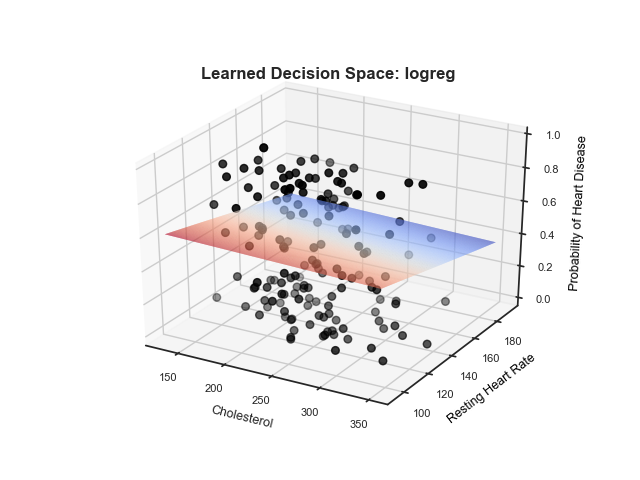
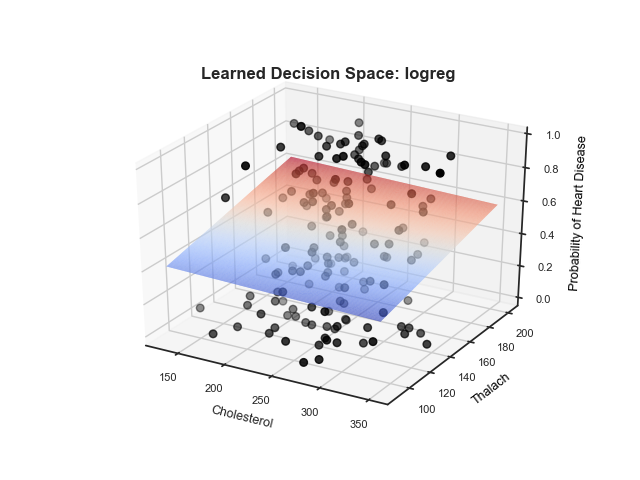
wip fix pics

Changed region(s): [[0.25, 0.2188, 0.7812, 0.8125], [0.625, 0.6875, 0.8438, 0.875]]

diff --git a/src/models/train_model.py b/src/models/train_model.py
@@ -302,18 +302,18 @@ class HeartDiseaseModels():
             
             return s_df.dropna(how='any')
 
-        s_0_trestbps, s_1_trestbps = [_gen_var_range('trestbps', s) for s in [0, 1]] # heart rate
+        s_0_trestbps, s_1_trestbps = [_gen_var_range('thalach', s) for s in [0, 1]] # heart rate
         s_0_age, s_1_age = [_gen_var_range('chol', s) for s in [0, 1]] # cholesterol
         
         s_0_age['key'] = 0
         s_0_trestbps['key'] = 0
-        full_range_0 = s_0_age.merge(s_0_trestbps[['key', 'trestbps']], on='key', how='outer')
-        full_range_0['trestbps'] = full_range_0['trestbps_y']
+        full_range_0 = s_0_age.merge(s_0_trestbps[['key', 'thalach']], on='key', how='outer')
+        full_range_0['thalach'] = full_range_0['thalach_y']
 
         s_1_age['key'] = 0
         s_1_trestbps['key'] = 0
-        full_range_1 = s_1_age.merge(s_1_trestbps[['key', 'trestbps']], on='key', how='outer')
-        full_range_1['trestbps'] = full_range_1['trestbps_y']
+        full_range_1 = s_1_age.merge(s_1_trestbps[['key', 'thalach']], on='key', how='outer')
+        full_range_1['thalach'] = full_range_1['thalach_y']
 
         self.synthetic_male, self.synthetic_female = full_range_0, full_range_1
 
@@ -331,21 +331,21 @@ class HeartDiseaseModels():
     
         X_0 = self.synthetic_female[self.X_train.columns]
         X_0['p_disease'] = self.best_models[mdl_id].predict_proba(X_0)[:, 1]
-        df = X_0[['p_disease', 'chol', 'trestbps']]
+        df = X_0[['p_disease', 'chol', 'thalach']]
         yhat_0 = self.best_models[mdl_id].predict_proba(self.X_train[self.X_train.sex == 1])[:, 1]
 
         # plot probability surface
         fig = plt.figure(dpi=100)
         ax1 = fig.gca(projection='3d')
 
-        ax1.plot_trisurf(df['chol'], df['trestbps'], df['p_disease'], cmap=plt.cm.coolwarm, linewidth=0.001, alpha=0.85)
-        ax1.scatter(self.X_train[self.X_train.sex == 1]['chol'], self.X_train[self.X_train.sex == 1]['trestbps'], yhat_0,
+        ax1.plot_trisurf(df['chol'], df['thalach'], df['p_disease'], cmap=plt.cm.coolwarm, linewidth=0.001, alpha=0.85)
+        ax1.scatter(self.X_train[self.X_train.sex == 1]['chol'], self.X_train[self.X_train.sex == 1]['thalach'], yhat_0,
         c='black', s=30)
 
         # Decorations
         ax1.set_xlabel('Cholesterol', fontsize=9)
         ax1.tick_params(axis='x', rotation=0, labelsize=8)
-        ax1.set_ylabel('Resting Heart Rate', color='black', fontsize=9)
+        ax1.set_ylabel('Thalach', color='black', fontsize=9)
         ax1.tick_params(axis='y', rotation=0, labelsize=8)
         ax1.set_zlabel('Probability of Heart Disease', color='black', fontsize=9)
         ax1.tick_params(axis='z', rotation=0, labelsize=8)
@@ -369,8 +369,8 @@ class HeartDiseaseModels():
         self.classification_reports()
         self.gen_error_graphics()
         self.map_decision_space(name='logreg', mdl_id=0)
-        #self.map_decision_space(name='random_forest', mdl_id=1)
-        #self.map_decision_space(name='adaboost_trees', mdl_id=2)
+        self.map_decision_space(name='random_forest', mdl_id=1)
+        self.map_decision_space(name='adaboost_trees', mdl_id=2)
 
 def main():
 

diff --git a/README.md b/README.md
@@ -100,12 +100,32 @@ In addition to the simple accuracy above, the confusion matrices for Logistic Re
 
 ![Alt Text](https://github.com/RachelDoehr/heart-disease/blob/master/reports/figures/conf_matrix_Random_Forest.png?raw=true)
 
-Given the above, a 3rd order lag for the AR is used. Holt's Exponential Smoothing baseline model, on the other hand, uses a weighted lag combination. No hyperparameters are needed to be optimized in the statsmodels implementation.
+We can see above that the primary difference in the errors is from the random forest over-predicting heart disease when it truly was not there (14% of patients whose true label is no disease vs. the logistic regression's 10%). This may not be a bad thing (false positives) in a clinical preventative context, however, as it is almost certainly better than false negatives.
 
-The MS-AR's mse for the same period (using the custom extension to allow for walk-forward validation) is:
+The ROC curves illustrate this point as well, shown below. That being said, there isn't really a trade-off between false positives and false negatives between logistic regression and random forest; rather, logistic regression has lower false positives and performs the exact same as the random forest at identifying/handling instances of actually having heart disease (it does not miss them).
+
+*Logistic Regression*
+
 ![Alt Text](https://github.com/RachelDoehr/heart-disease/blob/master/reports/figures/roc_curve_Logistic_Regression.png?raw=true)
 
-A 3rd order Markov model is used as well.
+*Random Forest*
+
+![Alt Text](https://github.com/RachelDoehr/heart-disease/blob/master/reports/figures/roc_curve_Random_Forest.png?raw=true)
+
+The results for the boosted decision trees and the voting classifier are available in /reports/figures, although the boosted trees underperform both simple LR and RF, while the voting classifier performs comparably, likely due to the higher weighting placed on the LR.
+
+**Feature Importance**
+
+We can examine the learned behavior of the trained models with respect to variables of interest. Although regularization is used in the logit model, skewing any sort of standard errors or statistical inference measures by depressing the parameter estimates (and similarly, constraining the max depth of the trees in the nonparametric estimators), it is interesting to understand the model's internal dynamics nevertheless.
+
+I calculate what the 'average' male and female in the dataset look like by taking the mean of the continous variable by group or mode for categorical/binary variables. Next, 'synethetic' data is generated by duplicating the gender averages across the range of potential cholesterol and heart rate values seen in the data.
+
+Finally, these ~4,000 synthetic data points are pushed through each trained model to generate a predicted probability of heart disease. Plotting these creates a surface, over which I plotted the scatter points of the actual predicted probabilities for the ~300 patients in the dataset:
+
+![Alt Text](https://github.com/RachelDoehr/heart-disease/blob/master/reports/figures/probability_plot_logreg.png?raw=true)
+
+The graph illustrates that 
+
 
 ---
 
